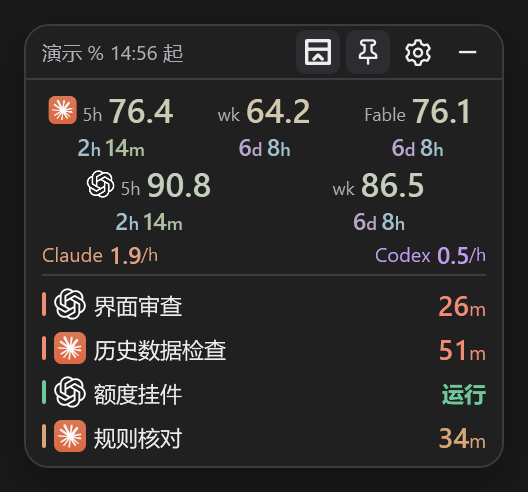
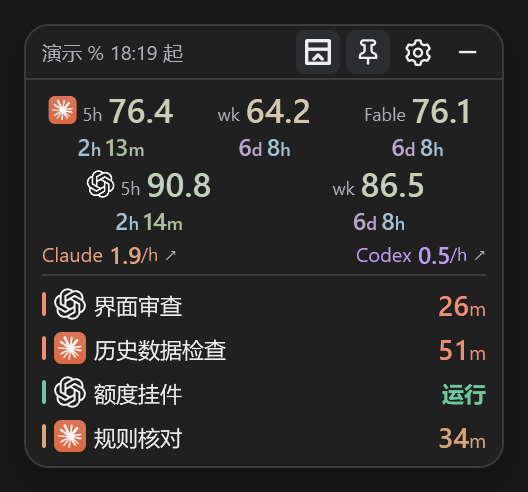
Release v0.13.18 with compact single-provider rates and single EXE

Changed region(s): [[0.6667, 0.4878, 0.9091, 0.5488], [0.2121, 0.2744, 0.2727, 0.3354], [0.2121, 0.0915, 0.303, 0.122]]

diff --git a/src/QuotaWidget/MainWindow.xaml b/src/QuotaWidget/MainWindow.xaml
@@ -113,11 +113,10 @@
             <Grid.ColumnDefinitions><ColumnDefinition Width="112"/><ColumnDefinition/></Grid.ColumnDefinitions>
             <local:QuotaRing x:Name="CodexInlineMeter" Label="week" Accent="Violet" Platform="Codex" Compact="True" SingleProvider="True" />
             <StackPanel x:Name="CodexInlineUsage" Grid.Column="1" Background="Transparent" VerticalAlignment="Center">
-              <Viewbox Stretch="Uniform" StretchDirection="DownOnly" HorizontalAlignment="Right">
-                <StackPanel Orientation="Horizontal">
-                  <TextBlock x:Name="CodexInlineRateValue" FontSize="13" FontWeight="SemiBold" Foreground="{DynamicResource Violet}" VerticalAlignment="Center" />
-                  <TextBlock Text="/h" FontSize="9" Foreground="{DynamicResource Violet}" VerticalAlignment="Center" />
-                  <TextBlock Text="↗" FontSize="9" Foreground="{DynamicResource Muted}" Margin="3,0,0,0" VerticalAlignment="Center" />
+              <Viewbox Stretch="Uniform" StretchDirection="DownOnly" HorizontalAlignment="Center">
+                <StackPanel Orientation="Vertical">
+                  <TextBlock local:Translate.Text="近1h" FontSize="9" Foreground="{DynamicResource Muted}" HorizontalAlignment="Center" />
+                  <TextBlock x:Name="CodexInlineRateValue" FontSize="16" FontWeight="SemiBold" Foreground="{DynamicResource Violet}" HorizontalAlignment="Center" />
                   <TextBlock x:Name="CodexInlinePoints" Visibility="Collapsed" FontSize="9" Foreground="{DynamicResource Muted}" Margin="6,0,0,0" VerticalAlignment="Center" />
                 </StackPanel>
               </Viewbox>
@@ -139,11 +138,11 @@
               <StackPanel x:Name="CompactClaudeRate" Grid.Column="0" VerticalAlignment="Center" Background="Transparent" Margin="0,0,4,0">
                 <Viewbox x:Name="CompactClaudeRateBox" Stretch="Uniform" StretchDirection="DownOnly" HorizontalAlignment="Left">
                   <StackPanel x:Name="CompactClaudeRateContent" Orientation="Horizontal">
-                    <StackPanel Orientation="Horizontal">
-                    <TextBlock Text="Claude" Foreground="{DynamicResource Claude}" FontSize="10" Margin="0,0,3,0" VerticalAlignment="Center" />
+                    <StackPanel x:Name="CompactClaudePrimaryRate" Orientation="Horizontal">
+                    <TextBlock x:Name="CompactClaudeRateHeading" Text="Claude" Foreground="{DynamicResource Claude}" FontSize="10" Margin="0,0,3,0" VerticalAlignment="Center" />
                     <TextBlock x:Name="CompactClaudeRateValue" FontSize="12" FontWeight="SemiBold" Foreground="{DynamicResource Claude}" VerticalAlignment="Center" />
-                    <TextBlock Text="/h" FontSize="9" Foreground="{DynamicResource Claude}" VerticalAlignment="Center" />
-                    <TextBlock Text="↗" FontSize="9" Foreground="{DynamicResource Muted}" Margin="3,0,0,0" VerticalAlignment="Center" />
+                    <TextBlock x:Name="CompactClaudeRateUnit" Text="/h" FontSize="9" Foreground="{DynamicResource Claude}" VerticalAlignment="Center" />
+                    <TextBlock x:Name="CompactClaudeRateArrow" Text="↗" FontSize="9" Foreground="{DynamicResource Muted}" Margin="3,0,0,0" VerticalAlignment="Center" />
                     </StackPanel>
                     <StackPanel x:Name="CompactFableRate" Orientation="Horizontal" Visibility="Collapsed" Margin="6,0,0,0">
                       <TextBlock Text="Fable" Foreground="{DynamicResource Fable}" FontSize="10" Margin="0,0,3,0" VerticalAlignment="Center" />
@@ -155,12 +154,12 @@
                 </Viewbox>
               </StackPanel>
               <StackPanel x:Name="CompactCodexRate" Grid.Column="1" VerticalAlignment="Center" Background="Transparent" Margin="4,0,0,0">
-                <Viewbox Stretch="Uniform" StretchDirection="DownOnly" HorizontalAlignment="Right">
-                  <StackPanel Orientation="Horizontal">
-                    <TextBlock Text="Codex" Foreground="{DynamicResource Violet}" FontSize="10" Margin="0,0,3,0" VerticalAlignment="Center" />
+                <Viewbox x:Name="CompactCodexRateBox" Stretch="Uniform" StretchDirection="DownOnly" HorizontalAlignment="Right">
+                  <StackPanel x:Name="CompactCodexPrimaryRate" Orientation="Horizontal">
+                    <TextBlock x:Name="CompactCodexRateHeading" Text="Codex" Foreground="{DynamicResource Violet}" FontSize="10" Margin="0,0,3,0" VerticalAlignment="Center" />
                     <TextBlock x:Name="CompactCodexRateValue" FontSize="12" FontWeight="SemiBold" Foreground="{DynamicResource Violet}" VerticalAlignment="Center" />
-                    <TextBlock Text="/h" FontSize="9" Foreground="{DynamicResource Violet}" VerticalAlignment="Center" />
-                    <TextBlock Text="↗" FontSize="9" Foreground="{DynamicResource Muted}" Margin="3,0,0,0" VerticalAlignment="Center" />
+                    <TextBlock x:Name="CompactCodexRateUnit" Text="/h" FontSize="9" Foreground="{DynamicResource Violet}" VerticalAlignment="Center" />
+                    <TextBlock x:Name="CompactCodexRateArrow" Text="↗" FontSize="9" Foreground="{DynamicResource Muted}" Margin="3,0,0,0" VerticalAlignment="Center" />
                     <TextBlock x:Name="CompactCodexPoints" Visibility="Collapsed" FontSize="9" Foreground="{DynamicResource Muted}" Margin="5,0,0,0" VerticalAlignment="Center" />
                   </StackPanel>
                 </Viewbox>

diff --git a/src/QuotaWidget/PlatformSelection.cs b/src/QuotaWidget/PlatformSelection.cs
@@ -20,11 +20,12 @@ public partial class MainWindow
         var week=codex&&(!five||limits?.AllWeek is not null);
         var inline=codexOnly&&s.CompactMode&&!five;
         var claudeInline=claude&&!codex&&s.CompactMode;
+        var codexRateInline=codexOnly&&s.CompactMode&&five;
         CodexMeter.SingleProvider=codexOnly&&!five;
         CodexMeter.ShowPlatformIcon=!five;
         CodexCompactSummary.Visibility=Show(inline);
         MeterGrid.Visibility=Show(!inline);
-        CompactRates.Visibility=Show(!inline&&!claudeInline);
+        CompactRates.Visibility=Show(!inline&&!claudeInline&&!codexRateInline);
         // Reuse the same rate control so its values and usage-card interactions
         // remain identical when moving between full, single and dual-provider views.
         var rateParent=claudeInline?MeterGrid:CompactRates;
@@ -38,12 +39,33 @@ public partial class MainWindow
         CompactClaudeRateContent.Orientation=claudeInline?Orientation.Vertical:Orientation.Horizontal;
         CompactClaudeRateBox.HorizontalAlignment=claudeInline?HorizontalAlignment.Center:HorizontalAlignment.Left;
         CompactFableRate.Margin=claudeInline?new Thickness(0,2,0,0):new Thickness(6,0,0,0);
+        var codexRateParent=codexRateInline?MeterGrid:CompactRates;
+        if(CompactCodexRate.Parent!=codexRateParent)
+        {
+            ((Panel)CompactCodexRate.Parent).Children.Remove(CompactCodexRate);
+            codexRateParent.Children.Add(CompactCodexRate);
+        }
+        Grid.SetColumn(CompactCodexRate,codexRateInline?5:1);
+        CompactCodexRate.Margin=codexRateInline?new Thickness(3,0,2,0):new Thickness(4,0,0,0);
+        CompactCodexRateBox.HorizontalAlignment=codexRateInline?HorizontalAlignment.Center:HorizontalAlignment.Right;
+        void RateLayout(bool single,StackPanel row,TextBlock heading,TextBlock value,TextBlock unit,TextBlock arrow,string platform,string accent)
+        {
+            row.Orientation=single?Orientation.Vertical:Orientation.Horizontal;
+            heading.Text=single?Loc.T("近1h"):platform;
+            heading.FontSize=single?9:10;heading.Foreground=Theme.Brush(single?"Muted":accent);
+            heading.Margin=single?new Thickness(0):new Thickness(0,0,3,0);
+            heading.HorizontalAlignment=value.HorizontalAlignment=single?HorizontalAlignment.Center:HorizontalAlignment.Stretch;
+            value.FontSize=single?16:12;
+            unit.Visibility=arrow.Visibility=Show(!single);
+        }
+        RateLayout(claudeInline,CompactClaudePrimaryRate,CompactClaudeRateHeading,CompactClaudeRateValue,CompactClaudeRateUnit,CompactClaudeRateArrow,"Claude","Claude");
+        RateLayout(codexOnly&&s.CompactMode,CompactCodexPrimaryRate,CompactCodexRateHeading,CompactCodexRateValue,CompactCodexRateUnit,CompactCodexRateArrow,"Codex","Violet");
         foreach(var meter in new[]{FiveMeter,WeekMeter,FableMeter}) meter.Visibility=Show(claude);
         CodexFiveMeter.Visibility=Show(five);CodexMeter.Visibility=Show(week);
         // Give each provider a row when five quotas would squeeze the compact or
         // narrow full view. Accounts without 5h retain their existing geometry.
         var stacked=(s.CompactMode||s.Width<280)&&claude&&five;
-        var columns=stacked?6:4+(five?1:0);
+        var columns=stacked?6:4+(five?1:0)+(codexRateInline?1:0);
         if(MeterGrid.ColumnDefinitions.Count!=columns)
         {MeterGrid.ColumnDefinitions.Clear();for(var i=0;i<columns;i++)MeterGrid.ColumnDefinitions.Add(new());}
         if(MeterGrid.RowDefinitions.Count!=(stacked?2:0))
@@ -63,7 +85,8 @@ public partial class MainWindow
             Grid.SetColumn(CodexFiveMeter,3);Grid.SetColumn(CodexMeter,five?4:3);
             for(var i=0;i<columns;i++)MeterGrid.ColumnDefinitions[i].Width=new((i<3?claude:i==3&&five?five:week)?1:0,GridUnitType.Star);
             if(claudeInline)
-                for(var i=0;i<4;i++)MeterGrid.ColumnDefinitions[i].Width=new(new[]{1.05,.95,.95,1.25}[i],GridUnitType.Star);
+                for(var i=0;i<4;i++)MeterGrid.ColumnDefinitions[i].Width=new(i<3?1:.85,GridUnitType.Star);
+            if(codexRateInline)MeterGrid.ColumnDefinitions[5].Width=new(.85,GridUnitType.Star);
         }
         Grid.SetColumn(MeterDivider,3);
         MeterDivider.Visibility=Show(claude&&codex&&!stacked);

diff --git a/README.md b/README.md
@@ -27,7 +27,7 @@ All screenshots use synthetic demo data. Supports light and dark themes, full an
     <th>Settings</th>
   </tr>
   <tr>
-    <td align="center" valign="top"><strong>Claude + Codex</strong><br /><a href="docs/images/both-compact-en.png"><img src="docs/images/both-compact-en.png" width="220" alt="Compact mode with Claude and Codex" /></a><br /><strong>Codex</strong><br /><a href="docs/images/codex-compact-en.png"><img src="docs/images/codex-compact-en.png" width="220" alt="Compact mode with Codex only" /></a></td>
+    <td align="center" valign="top"><strong>Claude + Codex</strong><br /><a href="docs/images/both-compact-en.png"><img src="docs/images/both-compact-en.png" width="220" alt="Compact mode with Claude and Codex" /></a><br /><strong>Codex</strong><br /><a href="docs/images/codex-compact-en.png"><img src="docs/images/codex-compact-en.png" width="220" alt="Compact mode with Codex only" /></a><br /><strong>Claude</strong><br /><a href="docs/images/claude-compact-en.png"><img src="docs/images/claude-compact-en.png" width="220" alt="Compact mode with Claude only" /></a></td>
     <td align="center" valign="top"><strong>Claude</strong><br /><a href="docs/images/claude-usage-en.png"><img src="docs/images/claude-usage-en.png" width="220" alt="Claude usage grouped by model and chat" /></a><br /><strong>Codex</strong><br /><a href="docs/images/codex-usage-en.png"><img src="docs/images/codex-usage-en.png" width="220" alt="Codex usage grouped by model and chat" /></a></td>
     <td align="center" valign="top"><a href="docs/images/settings-en.png"><img src="docs/images/settings-en.png" width="220" alt="Provider connections, sampling and smoothing settings" /></a></td>
   </tr>
@@ -37,7 +37,7 @@ Each chart chooses Rate or Total independently. The numbers in its header remain
 
 ### Local usage details
 
-**To see which tasks account for your usage, click “Claude usage ↗ / Codex usage ↗” in the TOKEN section, or the provider's hourly rate ↗ in compact mode.** Hover to preview; click the card to pin it.
+**To see which tasks account for your usage, click “Claude usage ↗ / Codex usage ↗” in the TOKEN section. In compact mode, click the value below “Last 1h” for a single provider, or the provider's rate ↗ when showing both.** Hover to preview; click the card to pin it. “Last 1h” shows the observed recent-hour average in points/hour.
 
 Each provider has its own movable detail window. Choose **1h / 5h / 12h / 24h / 3d / all**, then compare model totals and individual chat/model rows: input, cached-input and output tokens, plus validated quota estimates. Different models used within one chat get separate rows. Project names appear in smaller, muted text; confirmed subagent usage is grouped under its parent chat. The initial range follows the full view, or starts at 1h in compact mode; each window then selects its range independently. Drag content to move either window; controls and scrolling retain their usual actions.
 

diff --git a/README.zh-CN.md b/README.zh-CN.md
@@ -29,7 +29,7 @@ A small Windows desktop widget for Claude and Codex quota, usage trends, and loc
     <th>设置</th>
   </tr>
   <tr>
-    <td align="center" valign="top"><strong>Claude + Codex</strong><br /><a href="docs/images/both-compact.png"><img src="docs/images/both-compact.png" width="220" alt="Claude 与 Codex 精简模式" /></a><br /><strong>Codex</strong><br /><a href="docs/images/codex-compact.png"><img src="docs/images/codex-compact.png" width="220" alt="仅 Codex 精简模式" /></a></td>
+    <td align="center" valign="top"><strong>Claude + Codex</strong><br /><a href="docs/images/both-compact.png"><img src="docs/images/both-compact.png" width="220" alt="Claude 与 Codex 精简模式" /></a><br /><strong>Codex</strong><br /><a href="docs/images/codex-compact.png"><img src="docs/images/codex-compact.png" width="220" alt="仅 Codex 精简模式" /></a><br /><strong>Claude</strong><br /><a href="docs/images/claude-compact.png"><img src="docs/images/claude-compact.png" width="220" alt="仅 Claude 精简模式" /></a></td>
     <td align="center" valign="top"><strong>Claude</strong><br /><a href="docs/images/claude-usage.png"><img src="docs/images/claude-usage.png" width="220" alt="Claude 用量：按模型和 chat 分组" /></a><br /><strong>Codex</strong><br /><a href="docs/images/codex-usage.png"><img src="docs/images/codex-usage.png" width="220" alt="Codex 用量：按模型和 chat 分组" /></a></td>
     <td align="center" valign="top"><a href="docs/images/settings.png"><img src="docs/images/settings.png" width="220" alt="平台连接、采样与平滑设置" /></a></td>
   </tr>
@@ -39,7 +39,7 @@ A small Windows desktop widget for Claude and Codex quota, usage trends, and loc
 
 ### 本机用量明细
 
-**想知道额度花在哪些任务上：完整模式点击 TOKEN 区域的「Claude 用量 ↗ / Codex 用量 ↗」，精简模式点击对应平台的每小时速率 ↗。**悬停也能预览，点击卡片即可固定。
+**想知道额度花在哪些任务上：完整模式点击 TOKEN 区域的「Claude 用量 ↗ / Codex 用量 ↗」；精简单平台模式点击「近1h」下的数值，双平台模式点击对应平台的速率 ↗。**悬停也能预览，点击卡片即可固定。「近1h」显示最近约一小时的均速，单位为点/h。
 
 Claude 和 Codex 各有一个可拖动的明细窗口。选定 **1h / 5h / 12h / 24h / 3d / all** 后，可按模型汇总、按 chat / 模型查看 IN 未缓存输入、CACHE 缓存命中、OUT 输出及通过校准的估算点数；同一 chat 用过的不同模型分行显示，方便对比任务消耗。有项目信息时，chat 名称后显示较小、较淡的项目名。确认归属的 subagent 用量计入父 chat。初始范围沿用完整视图，精简模式默认 1h，之后各明细窗口独立选时间。主窗口和固定明细都可拖动内容区域，按钮和滚动保留原操作。
 
